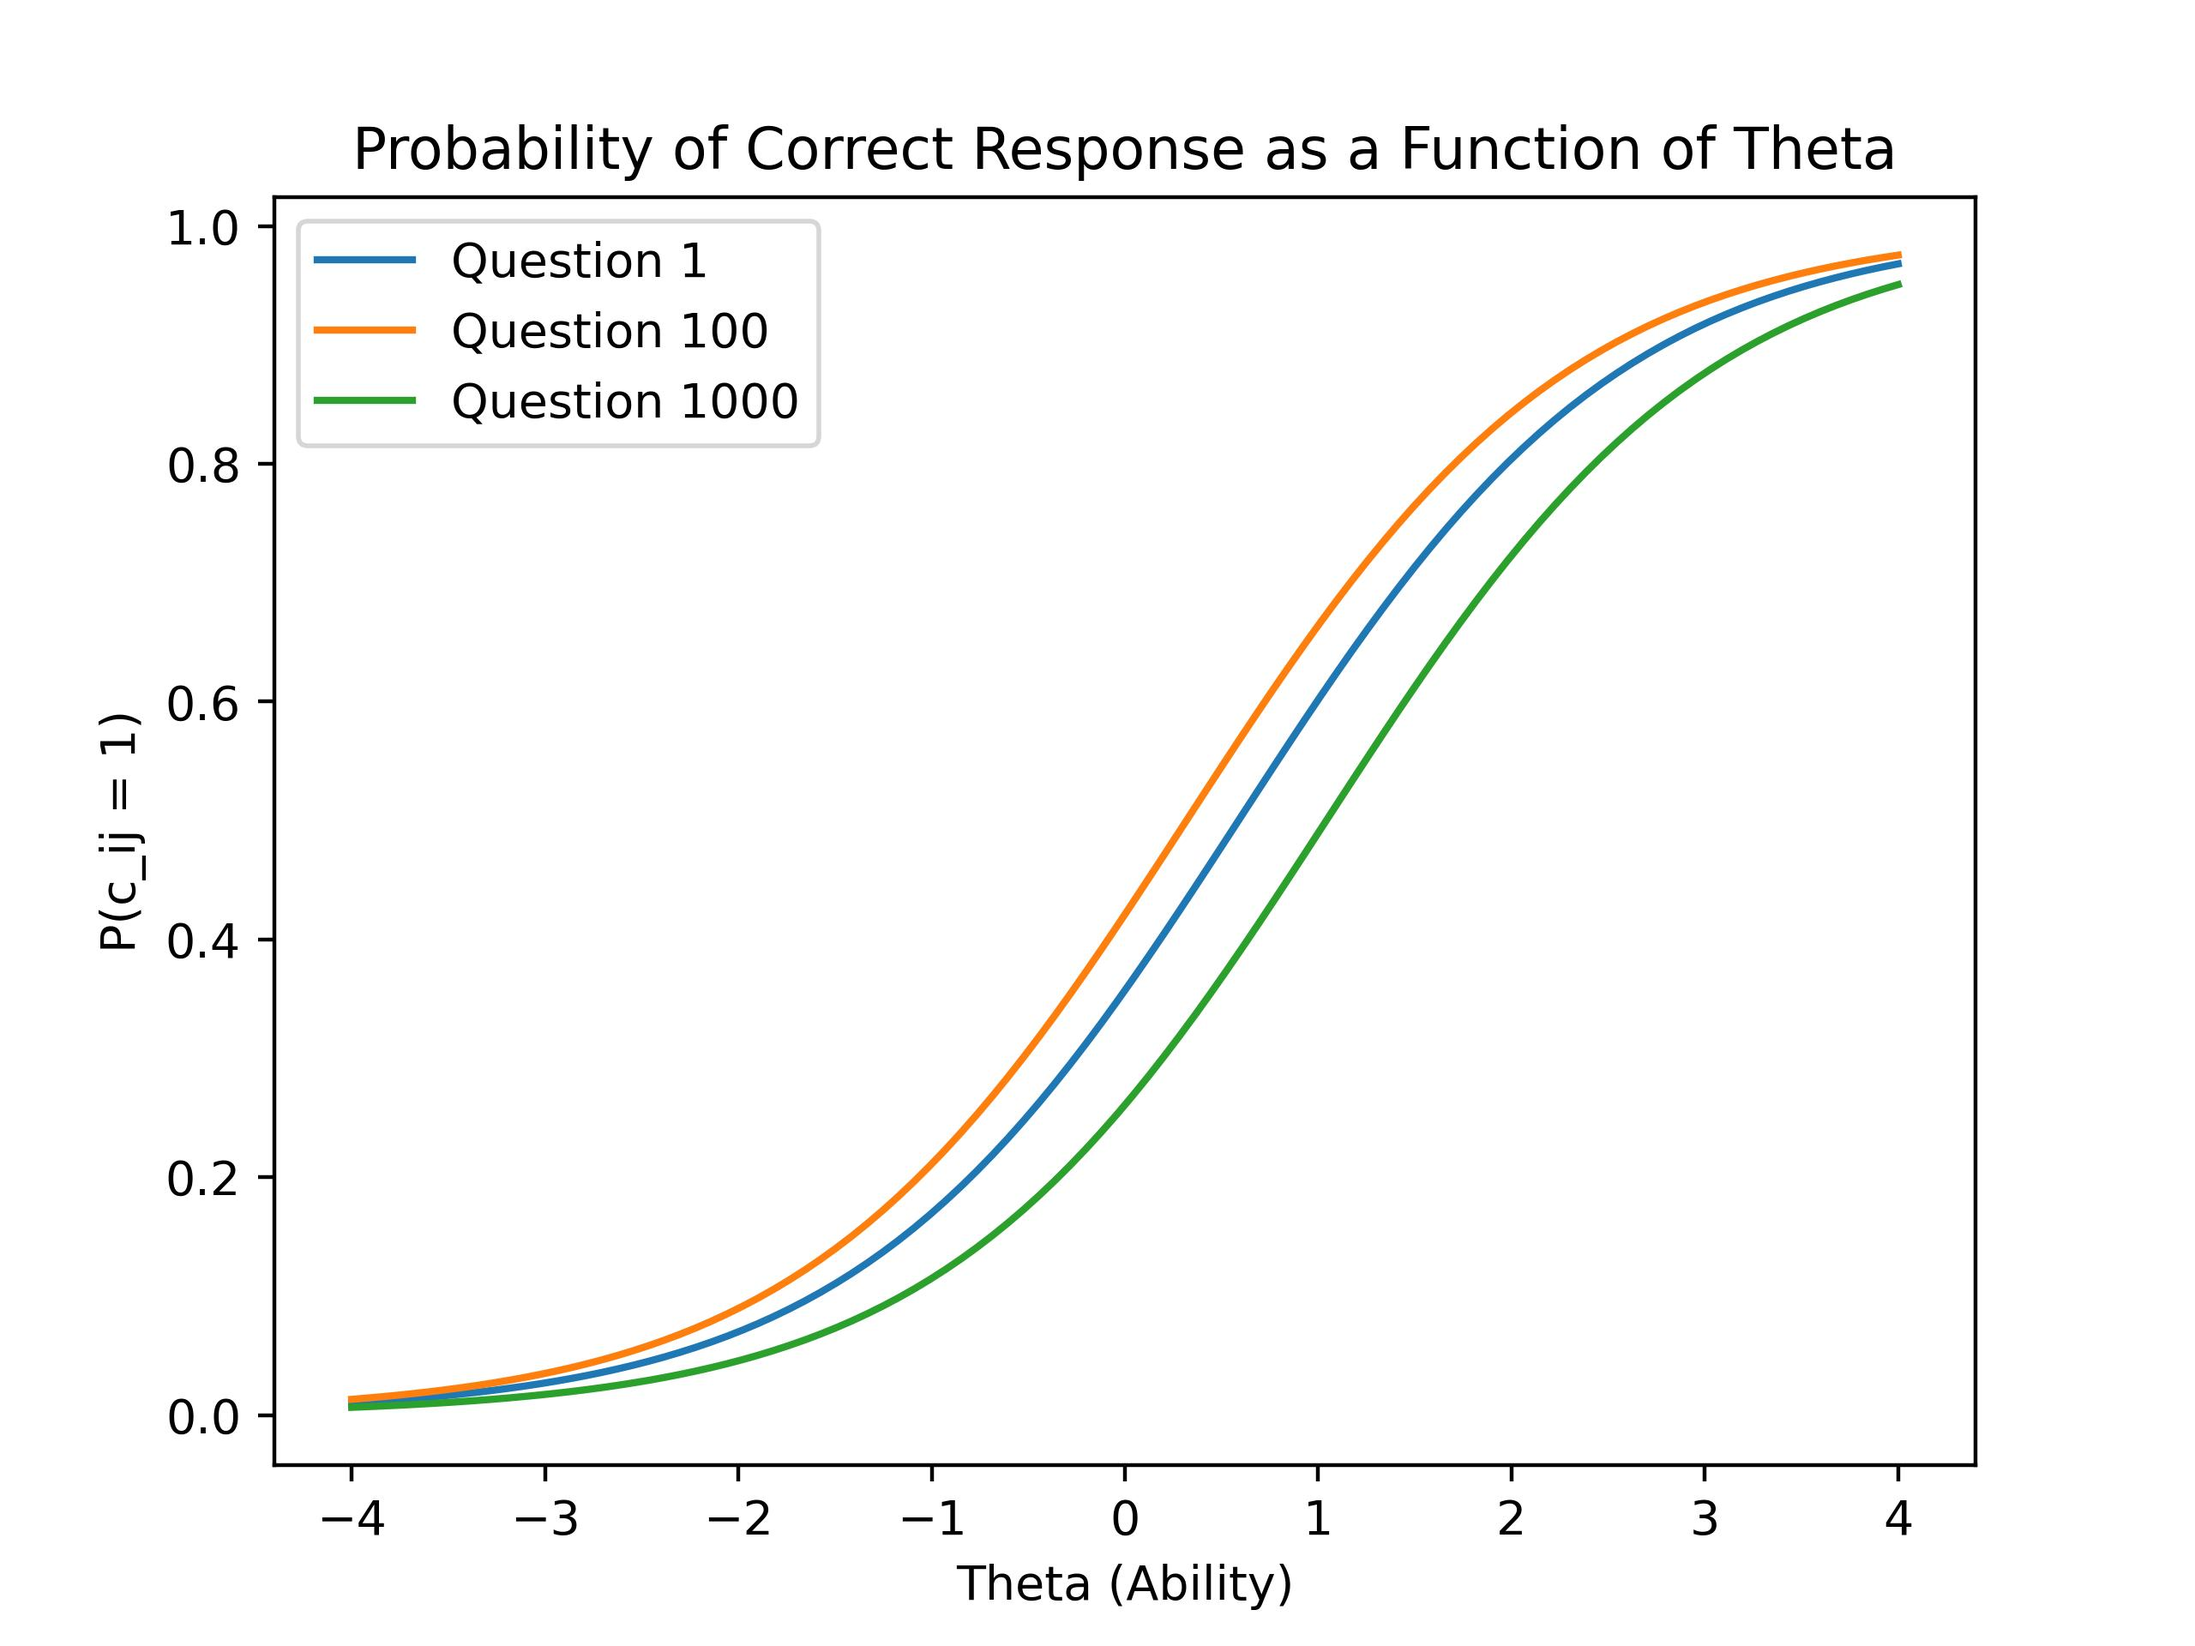
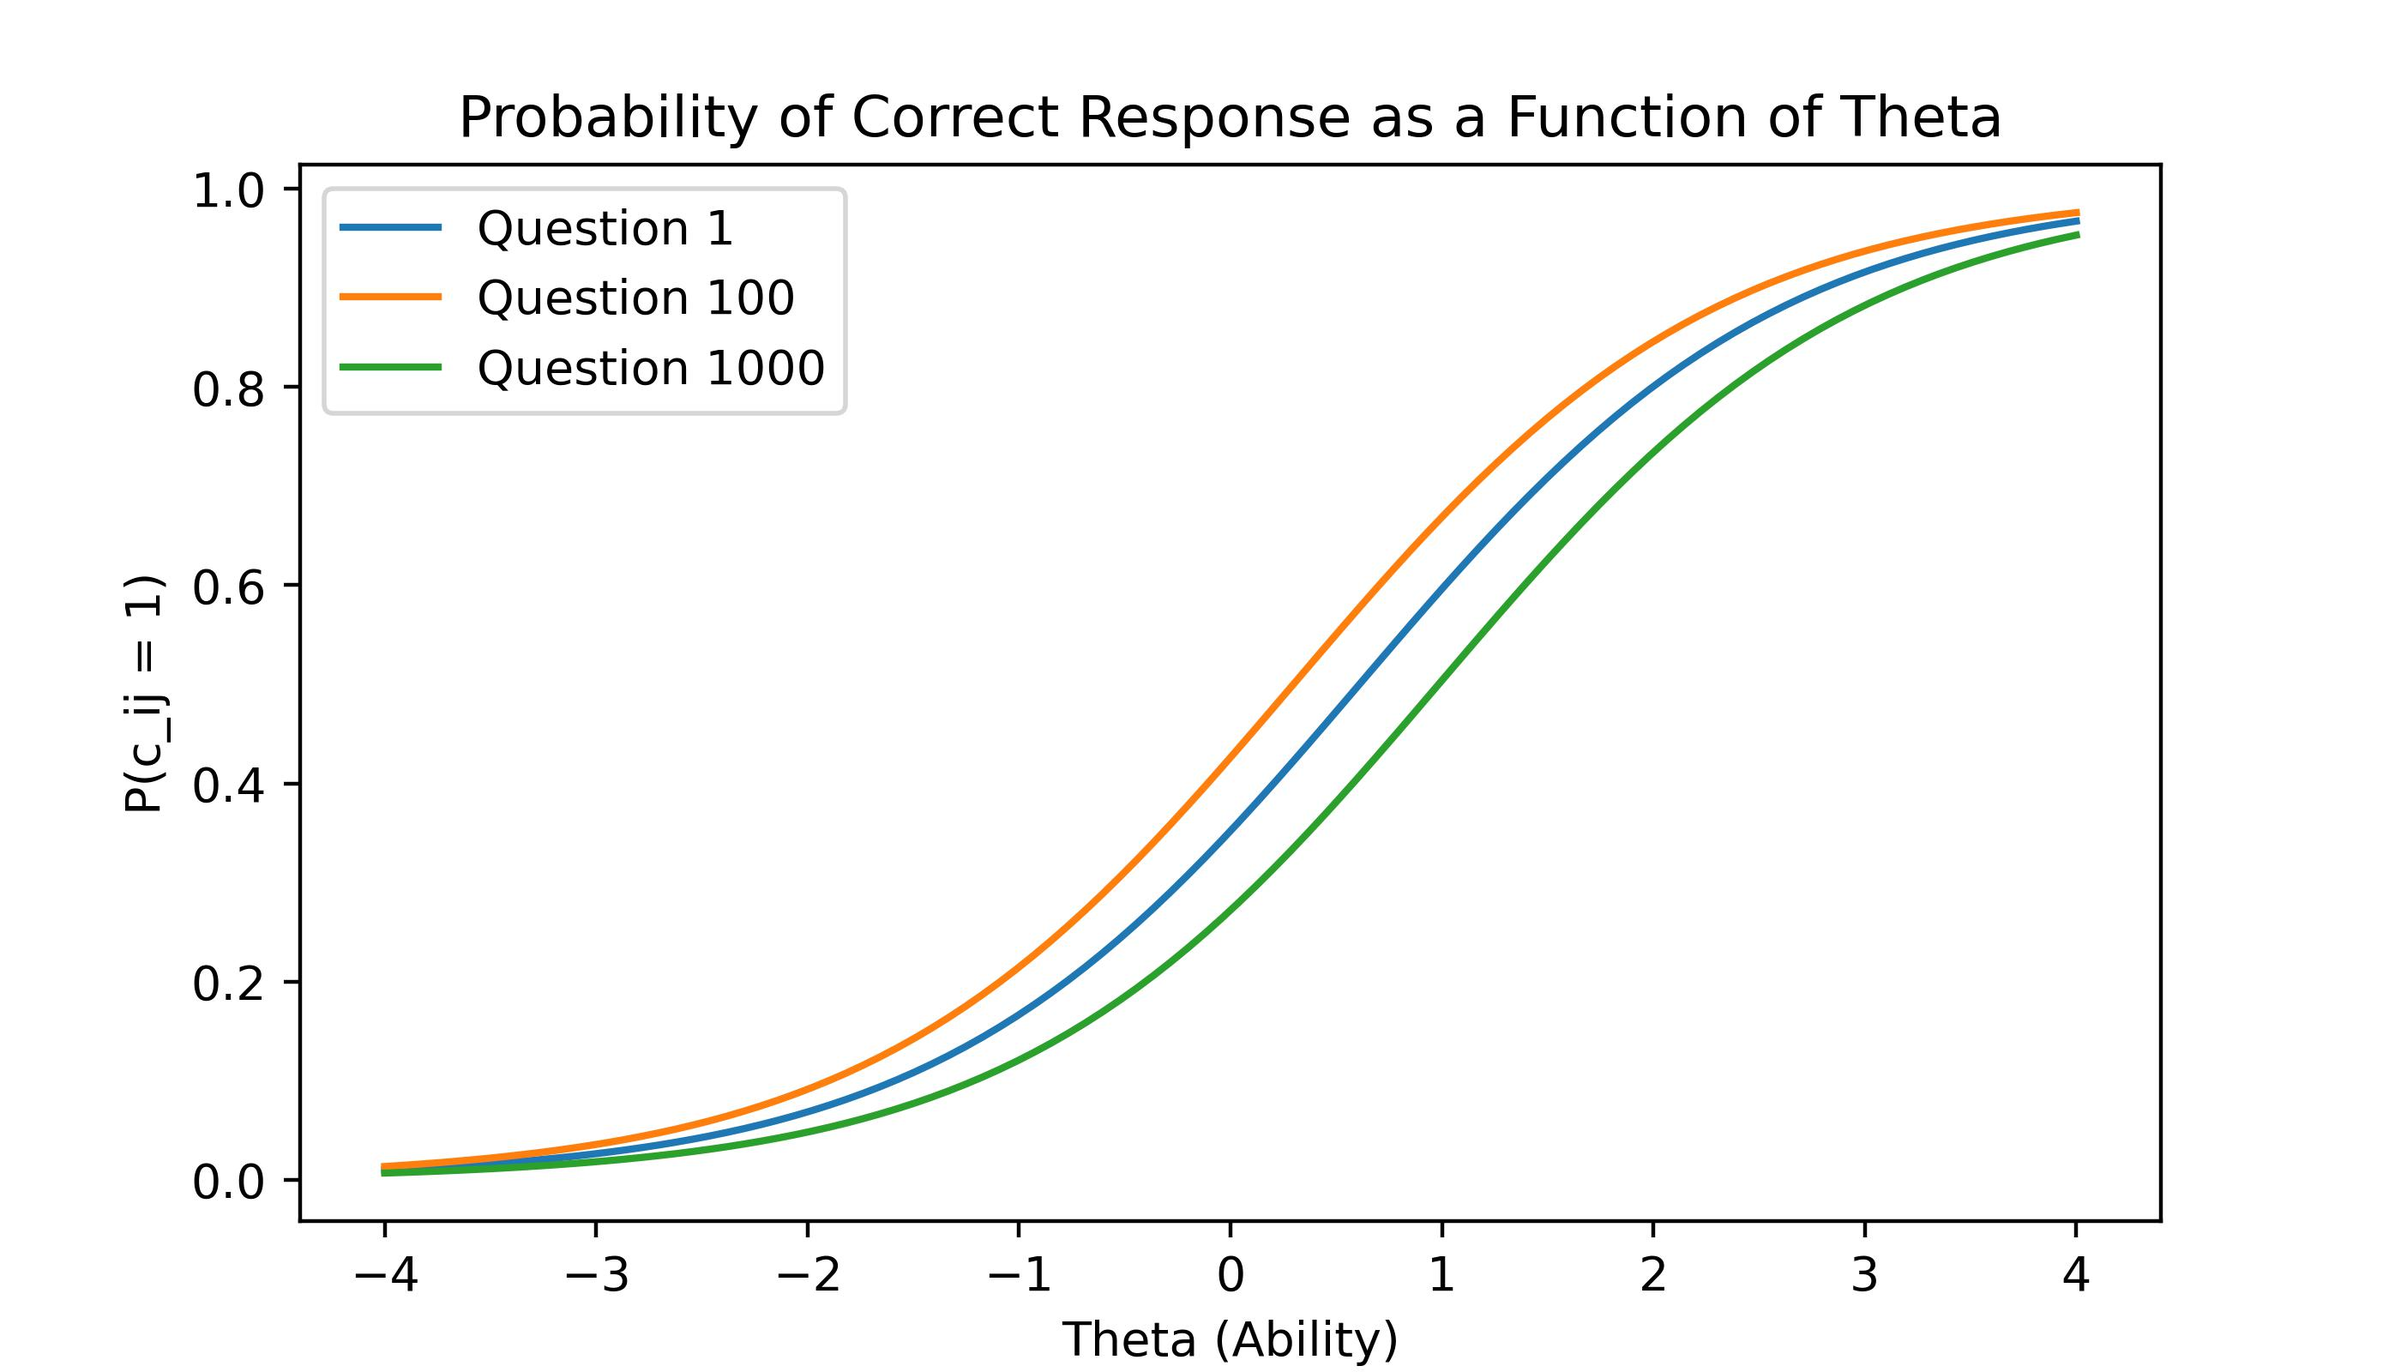
update

diff --git a/starter_code/part_a/item_response.py b/starter_code/part_a/item_response.py
@@ -117,12 +117,6 @@ def irt(data, val_data, lr, iterations):
     """
     # TODO: Initialize theta and beta.
 
-    # df = pd.DataFrame(data)
-    # df = df.pivot(index='user_id', columns='question_id')
-    # data = df.to_numpy()
-
-    # print(data.shape)
-
     m = data.shape[0]
     n = data.shape[1]
 
@@ -163,17 +157,22 @@ def evaluate(data, theta, beta):
            / len(data["is_correct"])
 
 
-def visualize(lst1, lst2):
-
-    plt.figure(figsize=(15, 6))
+def visualize(lst1, lst2, entry1, entry2, file_name):
+    plt.figure(figsize=(9, 4))
     plt.subplot(1, 2, 1)
-    plt.title(f'Training Loss vs. Epoch with k={10}, epochs={len(lst1)}, lr=0.01, lamb=0')
+    plt.xlabel('Epoch')
+    plt.ylabel(entry1)
+    plt.title(f'{entry1} vs. Epoch with IRT')
     plt.plot(lst1)
+    plt.scatter(range(len(lst1)), lst1)
 
     plt.subplot(1, 2, 2)
-    plt.title(f'Validation Accuracy vs. Epoch with k={10}, epochs={len(lst1)}, lr=0.01, lamb=0')
+    plt.title(f'{entry2} vs. Epoch with IRT')
     plt.plot(lst2)
-    plt.savefig('../out/irt.jpg', dpi=400)
+    plt.scatter(range(len(lst2)), lst2)
+    plt.ylabel(entry2)
+    plt.xlabel('Epoch')
+    plt.savefig(f'../out/{file_name}.jpg', dpi=400)
     plt.show()
 
 
@@ -201,7 +200,7 @@ def main():
                                                       val_data=val_data,
                                                       lr=0.01,
                                                       iterations=20)
-    # visualize(train_neg_lld_lst, val_acc_lst)
+    visualize(train_neg_lld_lst, val_acc_lst, 'Neg-likelihood', 'Validation acc', 'IRT')
 
     print(f'final value accuracy = {val_acc_lst[-1]}')
     test_accuracy = evaluate(data=test_data, theta=theta, beta=beta)
@@ -222,6 +221,7 @@ def main():
     p_j3 = sigmoid(theta_range - beta[j3])
 
     # Step 4: Plot the three curves on the same plot
+    plt.figure(figsize=(7, 4))
     plt.plot(theta_range, p_j1, label=f"Question {j1}")
     plt.plot(theta_range, p_j2, label=f"Question {j2}")
     plt.plot(theta_range, p_j3, label=f"Question {j3}")

diff --git a/starter_code/part_a/knn.py b/starter_code/part_a/knn.py
@@ -1,6 +1,6 @@
 import matplotlib.pyplot as plt
 from sklearn.impute import KNNImputer
-from utils import *
+from starter_code.utils import *
 import numpy as np
 import os, sys
 
@@ -92,10 +92,13 @@ def main():
 
         print(f'Test acc with maximum val acc with k* = {k_arr[ibest]} is {final_test_acc}')
 
-        plt.figure(figsize=(8, 5))
+        plt.figure(figsize=(7, 4))
         plt.plot(k_arr, acc_by_k)
+        plt.scatter(k_arr, acc_by_k)
+        plt.xlabel('k value')
+        plt.ylabel('Validation accuracy')
         plt.title(f'KNN accuracy on validation set with similarity by {approach[i]}')
-        plt.savefig(f'../out/KNN_{approach[i]}.jpg', dpi=450)
+        plt.savefig(f'../out/KNN_{approach[i]}.jpg', dpi=400)
 
         acc_by_approach[approach[i]] = acc_by_k
 
@@ -104,18 +107,20 @@ def main():
         max_test_acc.append(final_test_acc)
         ibests.append(ibest)
 
-    plt.figure(figsize=(12, 6))
+    plt.figure(figsize=(9, 4))
     plt.subplot(1, 2, 1)
     for i in range(len(approach)):
         plt.plot(k_arr, acc_by_approach[approach[i]], label=approach[i])
-        plt.title(f'Comparision of accuracy on validation set')
+        plt.scatter(k_arr, acc_by_approach[approach[i]])
+        plt.legend()
+        plt.title(f'Accuracy on validation set')
 
     plt.subplot(1, 2, 2)
     plt.bar(approach, max_test_acc)
-    plt.title(f'Comparision of best accuracy on test set with k*={k_arr[ibests]}')
+    plt.title(f'Best acc on test set with k*={k_arr[ibests]}')
     plt.ylim((0.65, 0.7))
 
-    plt.savefig(f'../out/KNN_compare.jpg', dpi=450)
+    plt.savefig(f'../out/KNN_compare.jpg', dpi=400)
     plt.show()
 
     #####################################################################
